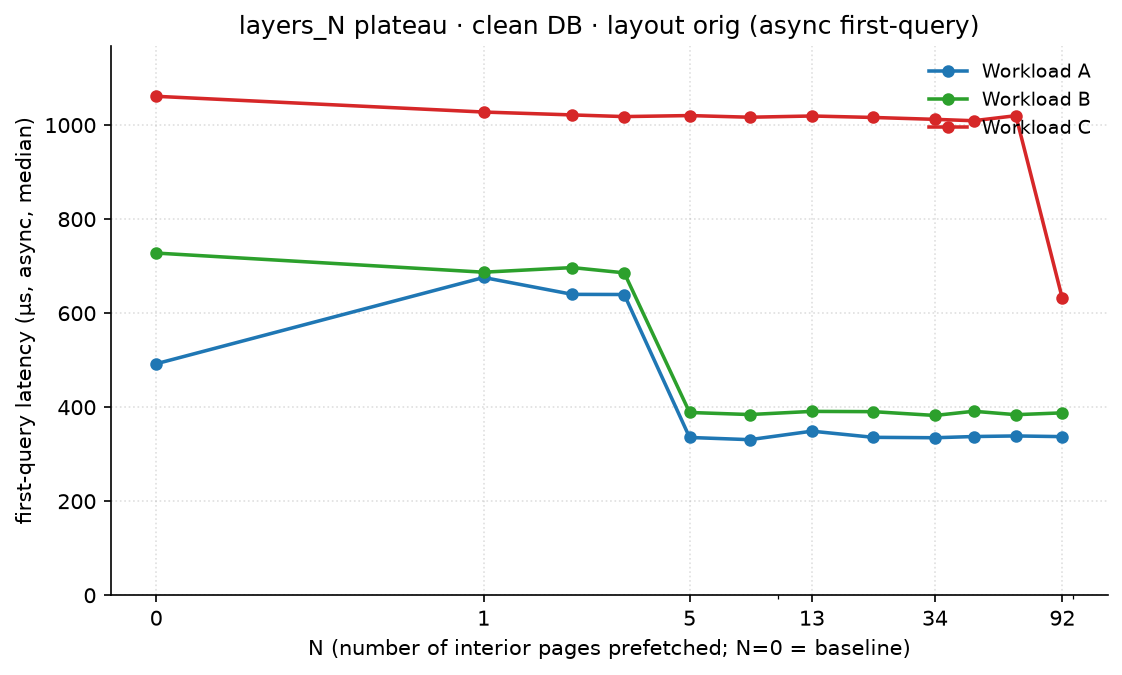
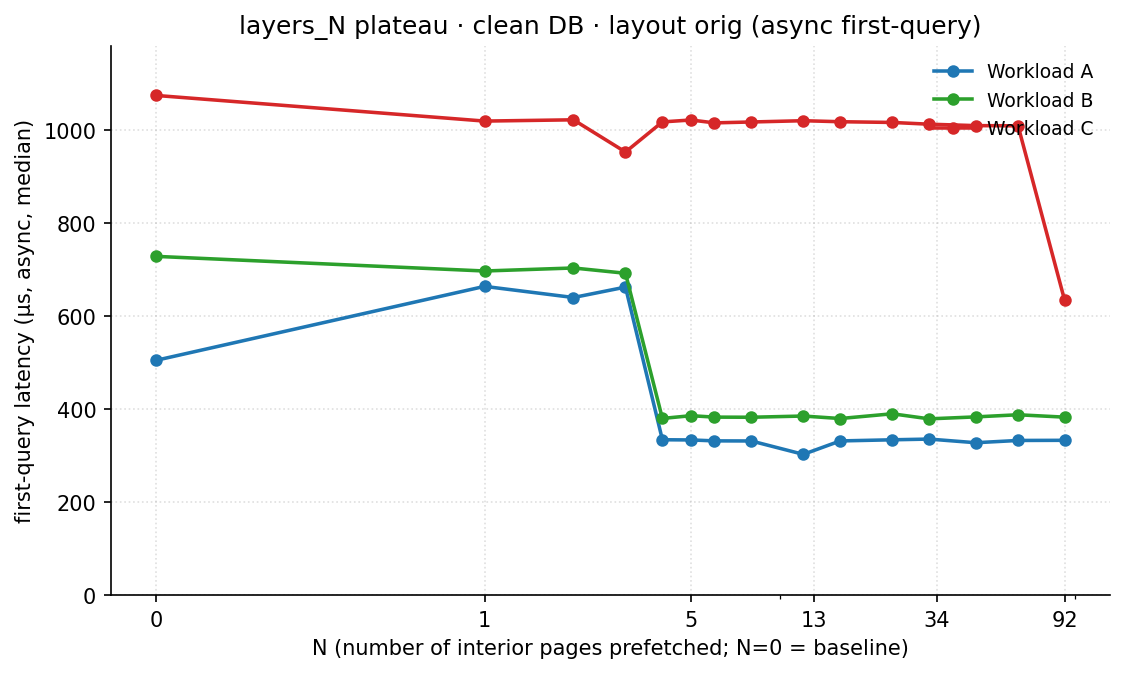
fix(report): correct B's layers_N plateau + repoint figure 4 to live data
Figure 4 was rendered from the deleted results/nsweep/ batch and its script
still pointed at that path; repoint to results/nsweep_dense/ and add the
missing db==orig filter (nsweep_dense holds all 3 layouts and was silently
picking up vacuum rows, plotting A at 700->960 instead of orig 505->663).

REPORT.md fig-4 long caption claimed "B/C need N~92"; the raw nsweep data
shows B bottoms out at N=4/5 (-47%, flat through N=92) -- only C needs N=92
(N=5 -5% -> N=92 -41%). Reworded to match the short caption, the section 5.3
text, and the plotting data.

diff --git a/figures/04_nsweep_plateau.py b/figures/04_nsweep_plateau.py
@@ -4,7 +4,7 @@ Story: layers_N first-query latency drops as N grows (more interior pages
 prefetched) and plateaus where the remaining cost is leaf faults. The plateau
 HEIGHT/SHAPE is workload-dependent. N=0 is the no-prefetch baseline.
 
-Data: results/nsweep/summary.csv — layers_N sweep on layout=orig,
+Data: results/nsweep_dense/summary.csv — layers_N sweep on layout=orig,
 async arm, first-query median (warmup dropped). N=0 = baseline cell.
 NOTE: the churned-DB N-sweep (old fig had a 2nd panel) needs churn-checkpoint
 infra not in the batch — see overall_results.md (kept as legacy).
@@ -14,11 +14,14 @@ from collections import defaultdict
 from plot_utils import ROOT, WORKLOAD_COLORS, save
 import matplotlib.pyplot as plt
 
-SUMMARY = ROOT / "results/nsweep/summary.csv"
+SUMMARY = ROOT / "results/nsweep_dense/summary.csv"
 
-# workload -> {N: fq_median(async)}
+# workload -> {N: fq_median(async)}.  nsweep_dense holds all 3 layouts
+# (orig/vacuum/ta); this figure is the orig-layout plateau only.
 data = defaultdict(dict)
 for r in csv.DictReader(open(SUMMARY)):
+    if r["db"] != "orig":
+        continue
     w = r["workload"]
     if r["strategy"] == "baseline" and r["arm"] == "baseline":
         data[w][0] = float(r["fq_median"])

diff --git a/REPORT.md b/REPORT.md
@@ -767,7 +767,7 @@ first-query improvement上限(orig,vs baseline):
 
 *（clean DB、layout orig、async first-query；A/B 在 N=5 落底、C 需 N=92。3-layout 版見 Figure 11、churned-DB 版見 Figure 12。）*
 
-*圖 4：N（prefetch 多少個 interior page）對 first query 的影響。**A 在 N=5 就到 plateau**，**此 plateau 描述的是「跑完整段 workload 的 avg latency / steady-state」**：first-q 時 leaves 跟 interior 同樣是 cold（cold-start protocol DONTNEED 全清），layers_5 在 first-q 只移除 interior fault，仍付一次 leaf fault；**跑開後** hot keys 對應的 leaves 自然 warm-up、interior 才成為唯一反覆需要且 shared 的 bottleneck，所以 prefetch 專攻 interior 就夠。**B/C 要到 N≈92 才壓住** first-q 是因為它們每筆 query 都打不同 cold leaf、沒有自然 hot leaves 可依賴。Churn 不改變此 plateau 的形狀。*
+*圖 4：N（prefetch 多少個 interior page）對 first query 的影響。**A/B 在 N=5 就到 plateau**（B 甚至 N=4 即落底，−47%），**此 plateau 描述的是「跑完整段 workload 的 avg latency / steady-state」**：first-q 時 leaves 跟 interior 同樣是 cold（cold-start protocol DONTNEED 全清），layers_5 在 first-q 只移除 interior fault，仍付一次 leaf fault；**跑開後** hot keys 對應的 leaves 自然 warm-up、interior 才成為唯一反覆需要且 shared 的 bottleneck，所以 prefetch 專攻 interior 就夠。**唯 C 要到 N=92 才壓住** first-q：C 的 hot interior page 落在 file 中段，而 layers_N 按 file offset 升序取前 N 個，小 N 會選到錯的 early-offset page（N=5 才 −5%），要取滿 92 個才蓋到中段的 hot interior（−41%）。Churn 不改變此 plateau 的形狀。*
 
 ### 5.4 Access-pattern frugality on Workload C
 